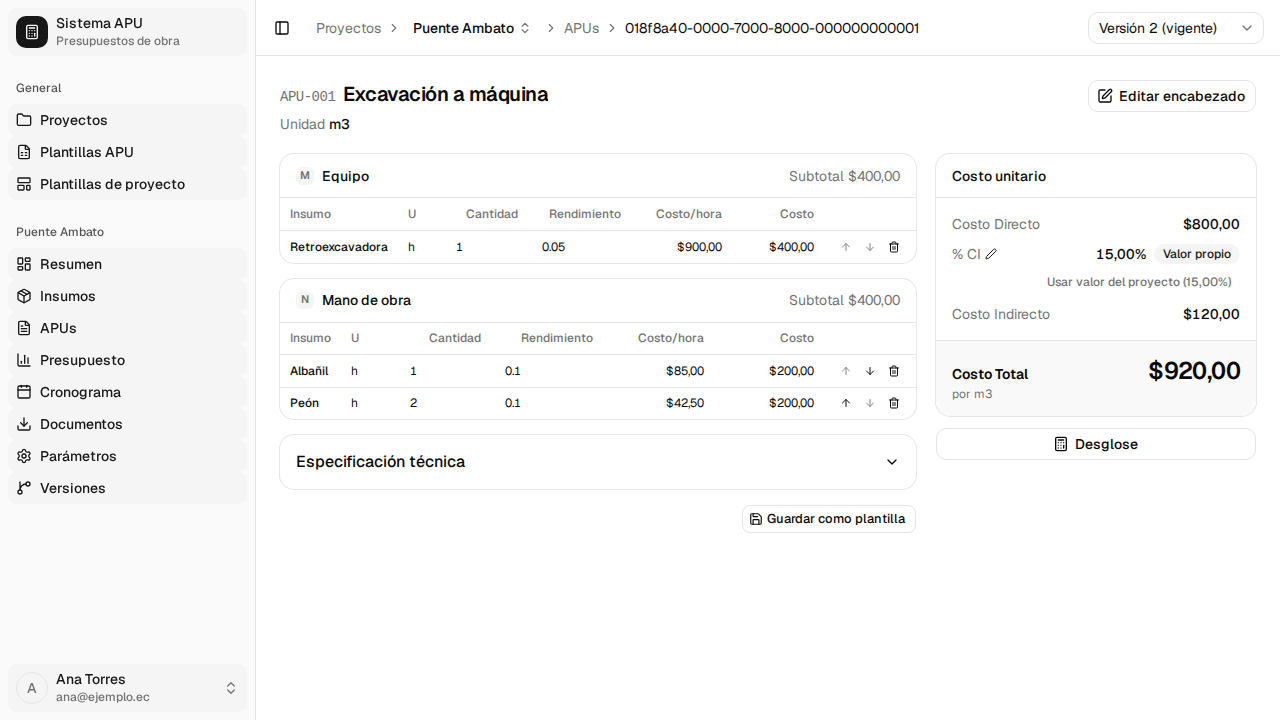
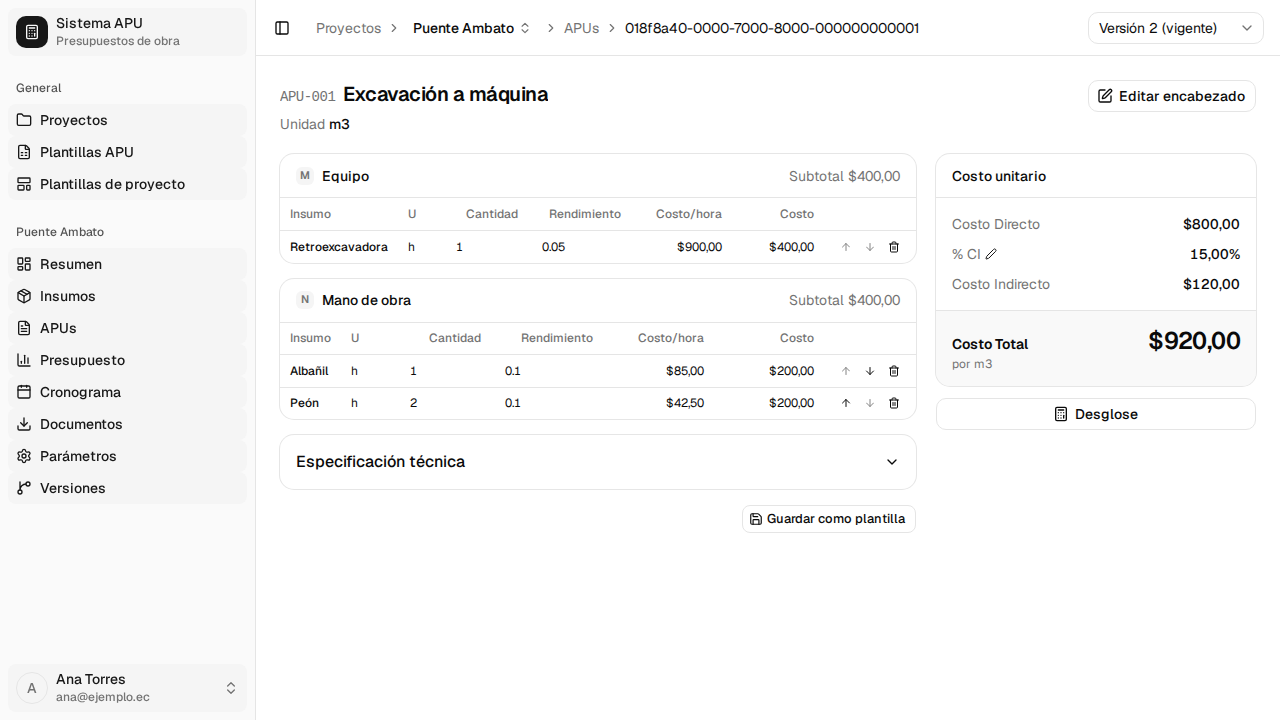
fix: insignia %CI mentirosa y color de Equipo invisible (plan 065)
Dos defectos que solo se veian mirando las capturas de verdad.

1. `ApuResponse` lleva @JsonInclude(NON_NULL) en el backend: cuando el APU
   hereda el %CI del proyecto, Jackson OMITE `porcentajeIndirecto`, asi que en
   TS llega `undefined`, no `null`. `PieTotales` lo comprobaba con `!== null`
   dos veces, y `undefined !== null` es true: TODOS los APU mostraban la
   insignia «Valor propio» y el enlace «Usar valor del proyecto», heredaran o
   no. El propio archivo ya usaba `!= null` bien tres decenas de lineas mas
   arriba. Las dos comparaciones pasan a `!= null`.

   Barrido del repo por el mismo patron: el unico otro `=== null` sobre un
   campo de DTO es `detalle.insumoId` en FilaDetalle. `ApuDetalleResponse` NO
   lleva NON_NULL (verificado en origin/main @ c337950), asi que hoy el null si
   viaja; pero el contrato lo declara `insumoId?: string | null` (opcional) y
   la linea de al lado ya usa `!= null`. Pasa a `== null`: mismo tamano,
   correcto bajo ambas lecturas.

2. `src/index.css` definia `--chart-1..5` en `:root` y en el bloque oscuro pero
   no las mapeaba en `@theme inline`. Tailwind v4 genera `bg-<nombre>` desde
   `--color-<nombre>`, asi que `bg-chart-1` no producia color: «Equipo» era el
   unico de los cuatro sin punto y su segmento de barra era invisible. Se mapea
   `--color-chart-1` y se borran `--chart-2..5`, que no las usaba nadie (grep
   en todo el repo): no queda ninguna definida y sin mapear.

Tests (rojo primero):
[…]

Changed region(s): [[0.75, 0.3361, 0.9688, 0.55], [0.8125, 0.55, 0.9062, 0.6417]]

diff --git a/src/test/features/apu-editor/components/PieTotales.test.tsx b/src/test/features/apu-editor/components/PieTotales.test.tsx
@@ -49,6 +49,42 @@ describe("PieTotales", () => {
     expect(screen.getByText("Valor propio")).toBeInTheDocument();
   });
 
+  // `ApuResponse` lleva @JsonInclude(NON_NULL) en el backend: cuando el APU
+  // hereda el %CI del proyecto la clave `porcentajeIndirecto` NO viene en el
+  // JSON, así que en TS es `undefined`, no `null`. Con `!== null` la insignia
+  // salía en TODOS los APU. La fixture debe OMITIR la clave, no ponerla a
+  // `null`: ponerla a `null` hace pasar el test en falso y es justo lo que
+  // enmascaraba el bug.
+  it("no muestra Valor propio ni el enlace al valor del proyecto cuando el APU hereda", () => {
+    expect(apuDetalleFixture).not.toHaveProperty("porcentajeIndirecto");
+
+    renderConProviders(
+      <PieTotales
+        apu={apuDetalleFixture}
+        onEditarPorcentajeCi={() => Promise.resolve()}
+        onAbrirDesglose={() => {}}
+      />,
+    );
+
+    expect(screen.queryByText("Valor propio")).not.toBeInTheDocument();
+    expect(
+      screen.queryByRole("button", { name: /usar valor del proyecto/i }),
+    ).not.toBeInTheDocument();
+  });
+
+  it("ofrece volver al valor del proyecto cuando el APU tiene override propio", () => {
+    renderConProviders(
+      <PieTotales
+        apu={{ ...apuDetalleFixture, porcentajeIndirecto: 0.22 }}
+        onEditarPorcentajeCi={() => Promise.resolve()}
+        onAbrirDesglose={() => {}}
+      />,
+    );
+
+    expect(screen.getByText("Valor propio")).toBeInTheDocument();
+    expect(screen.getByRole("button", { name: /usar valor del proyecto/i })).toBeInTheDocument();
+  });
+
   // El descuento de rubro no está pendiente: fue retirado (plan backend 015 y
   // rollout docs 2026-08-31, P-24/S-24 WITHDRAWN). Dejar el botón deshabilitado
   // prometía algo que el backend decidió no tener.

diff --git a/src/test/features/presupuesto/components/ResumenComponentes.test.tsx b/src/test/features/presupuesto/components/ResumenComponentes.test.tsx
@@ -1,0 +1,35 @@
+import { readFileSync } from "node:fs";
+import { describe, expect, it } from "vitest";
+import { COMPONENTE_META } from "@/features/presupuesto/components/ResumenComponentes";
+
+// Tailwind v4 genera `bg-<nombre>` a partir de `--color-<nombre>` declarado en
+// `@theme inline`. Una variable definida sólo en `:root` NO produce utilidad:
+// la clase existe en el TSX, no falla en build y simplemente no pinta nada.
+// Así se coló `bg-chart-1`, que dejaba «Equipo» sin punto de color ni segmento
+// de barra en el desglose. Esto no se ve en un test de render (jsdom no aplica
+// CSS de Tailwind), así que la guarda lee el CSS fuente.
+const css = readFileSync("src/index.css", "utf8");
+const temaInline = /@theme inline\s*\{([\s\S]*?)\n\}/.exec(css)?.[1] ?? "";
+
+function estaMapeada(nombre: string): boolean {
+  return new RegExp(`--color-${nombre}\\s*:`).test(temaInline);
+}
+
+describe("ResumenComponentes / tokens de color", () => {
+  it("toda clase bg-* del desglose tiene su --color-* en @theme inline", () => {
+    expect(temaInline).not.toBe("");
+
+    const sinMapear = Object.values(COMPONENTE_META)
+      .map((meta) => meta.color.replace(/^bg-/, ""))
+      .filter((nombre) => !estaMapeada(nombre));
+
+    expect(sinMapear).toEqual([]);
+  });
+
+  it("no queda ninguna variable --chart-* definida y sin mapear", () => {
+    const definidas = [...css.matchAll(/^\s*--(chart-\d+)\s*:/gm)].map((m) => m[1]);
+    const sinMapear = [...new Set(definidas)].filter((nombre) => !estaMapeada(nombre));
+
+    expect(sinMapear).toEqual([]);
+  });
+});

diff --git a/src/index.css b/src/index.css
@@ -25,10 +25,6 @@
   --input: oklch(0.922 0 0);
   --ring: oklch(0.708 0 0);
   --chart-1: oklch(0.205 0 0);
-  --chart-2: oklch(0.556 0 0);
-  --chart-3: oklch(0.439 0 0);
-  --chart-4: oklch(0.371 0 0);
-  --chart-5: oklch(0.269 0 0);
   --radius: 0.625rem;
   --sidebar: oklch(0.985 0 0);
   --sidebar-foreground: oklch(0.145 0 0);
@@ -77,10 +73,6 @@
   --input: oklch(1 0 0 / 15%);
   --ring: oklch(0.556 0 0);
   --chart-1: oklch(0.87 0 0);
-  --chart-2: oklch(0.556 0 0);
-  --chart-3: oklch(0.439 0 0);
-  --chart-4: oklch(0.371 0 0);
-  --chart-5: oklch(0.269 0 0);
   --sidebar: oklch(0.205 0 0);
   --sidebar-foreground: oklch(0.985 0 0);
   --sidebar-primary: oklch(0.985 0 0);
@@ -97,6 +89,8 @@
 
 @theme inline {
   --font-sans: "Geist Variable", ui-sans-serif, system-ui, sans-serif;
+
+  --color-chart-1: var(--chart-1);
 
   --color-exito-texto: var(--exito-texto);
   --color-advertencia-texto: var(--advertencia-texto);

diff --git a/src/features/apu-editor/components/PieTotales.tsx b/src/features/apu-editor/components/PieTotales.tsx
@@ -98,13 +98,13 @@ export function PieTotales({ apu, onEditarPorcentajeCi, onAbrirDesglose }: PieTo
                   <span className="num font-medium">
                     {formatearPorcentaje(apu.porcentajeIndirectoEfectivo)}
                   </span>
-                  {apu.porcentajeIndirecto !== null && (
+                  {apu.porcentajeIndirecto != null && (
                     <Badge variant="secondary">Valor propio</Badge>
                   )}
                 </span>
               )}
             </div>
-            {!editandoCi && apu.porcentajeIndirecto !== null && (
+            {!editandoCi && apu.porcentajeIndirecto != null && (
               <Button
                 variant="ghost"
                 size="xs"

diff --git a/src/features/apu-editor/components/FilaDetalle.tsx b/src/features/apu-editor/components/FilaDetalle.tsx
@@ -102,7 +102,7 @@ export function FilaDetalle({
       <td className="px-2.5">
         <div className="flex items-center gap-2">
           <span className="font-medium">{detalle.descripcion}</span>
-          {detalle.insumoId === null && (
+          {detalle.insumoId == null && (
             <Badge variant="outline" className="text-amber-600 border-amber-300">
               Pendiente
             </Badge>

diff --git a/src/features/presupuesto/components/ResumenComponentes.tsx b/src/features/presupuesto/components/ResumenComponentes.tsx
@@ -8,7 +8,7 @@ interface ResumenComponentesProps {
   isLoading: boolean;
 }
 
-const COMPONENTE_META: Record<string, { label: string; color: string }> = {
+export const COMPONENTE_META: Record<string, { label: string; color: string }> = {
   EQUIPO: { label: "Equipo", color: "bg-chart-1" },
   MANO_OBRA: { label: "Mano de obra", color: "bg-exito" },
   MATERIAL: { label: "Material", color: "bg-advertencia" },

diff --git a/plans/065-dos-bugs-que-destaparon-las-capturas.md b/plans/065-dos-bugs-que-destaparon-las-capturas.md
@@ -1,6 +1,6 @@
 # Plan 065 — Dos bugs de UI que las capturas tapaban
 
-**Status:** TODO
+**Status:** DONE (2026-09-06, rama `ola8-065`, sobre `a52f766`)
 **Escrito contra:** frontend `main` tras la ola 7 · backend `origin/main` @ `c337950`
 **Esfuerzo:** S (30–45 min) · **Riesgo:** BAJO — dos arreglos de una línea cada uno
 **Ola:** 8 — cierra la ruta
